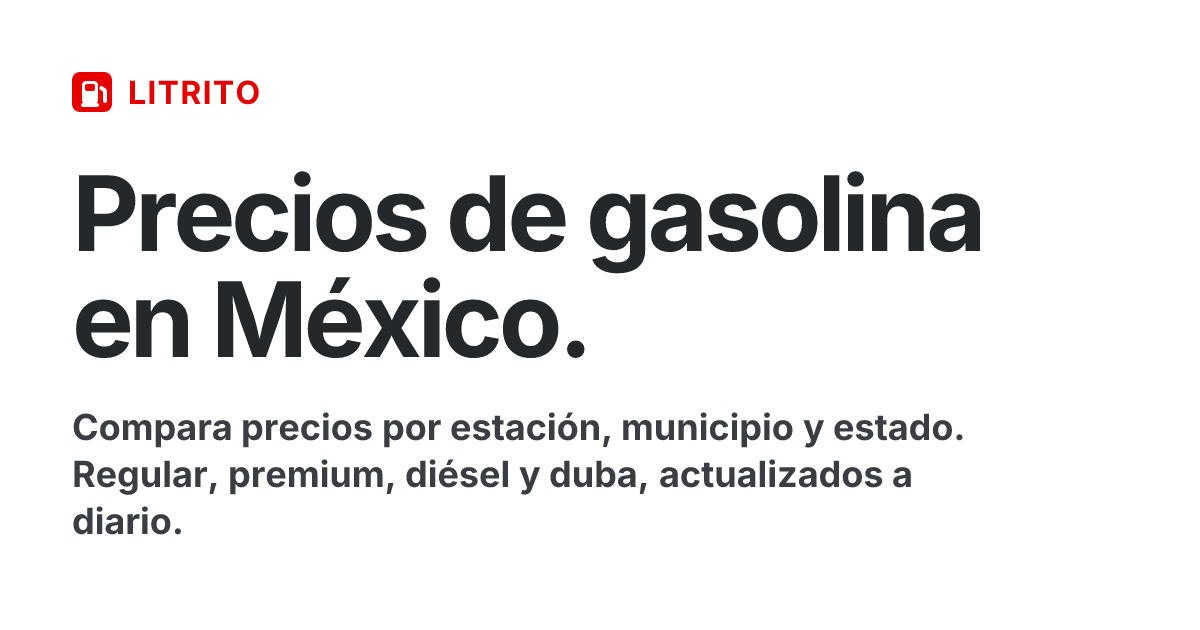
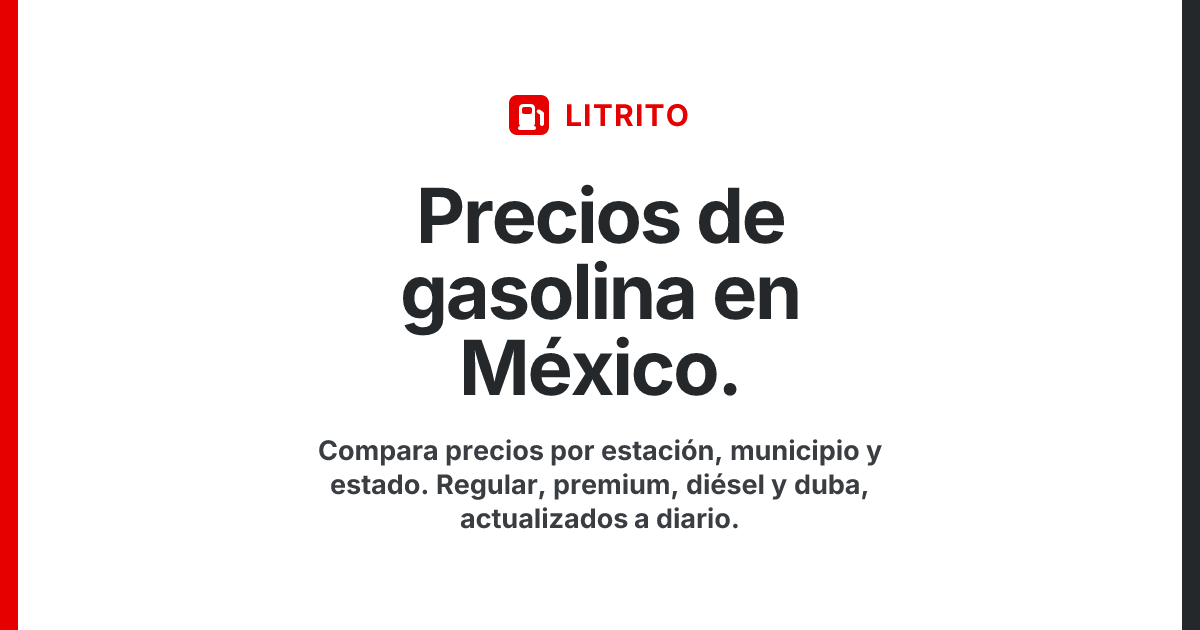
Fix mobile metrics tooltip and OG preview

diff --git a/src/components/SiteNav.tsx b/src/components/SiteNav.tsx
@@ -1,16 +1,18 @@
 import { useState } from 'react'
 import { Link } from '@tanstack/react-router'
 import Avatar from 'boring-avatars'
-import { ChevronDown, Fuel, LogOut, MapPin, User } from 'lucide-react'
+import { ChevronDown, Fuel, LogOut, MapPin, Menu, User, X } from 'lucide-react'
 import { authClient } from '#/lib/auth-client'
 import { useUserLocation } from '#/lib/useUserLocation'
 
 const AVATAR_COLORS = ['#e60000', '#25282b', '#7e7e7e', '#bebebe', '#ffffff']
 
 export function SiteNav() {
+  const [mobileOpen, setMobileOpen] = useState(false)
+
   return (
     <header className="sticky top-0 z-[1100] border-b border-white/10 bg-ink text-on-dark">
-      <nav className="mx-auto flex w-full max-w-6xl items-center gap-4 px-4 py-3 sm:px-6 lg:px-8">
+      <nav className="mx-auto flex w-full max-w-6xl items-center gap-3 px-4 py-3 sm:gap-4 sm:px-6 lg:px-8">
         <Link to="/" className="flex items-center gap-2.5 text-white hover:text-white">
           <span className="flex h-9 w-9 items-center justify-center rounded-[6px] bg-brand">
             <Fuel className="h-5 w-5 text-white" />
@@ -25,9 +27,30 @@ export function SiteNav() {
 
         <div className="ml-auto flex items-center gap-2">
           <LocationPill />
+          <button
+            type="button"
+            aria-label={mobileOpen ? 'Cerrar navegación' : 'Abrir navegación'}
+            aria-expanded={mobileOpen}
+            onClick={() => setMobileOpen((value) => !value)}
+            className="inline-flex h-9 w-9 items-center justify-center rounded-full border border-white/20 text-white/80 transition hover:border-white/50 hover:text-white sm:hidden"
+          >
+            {mobileOpen ? <X className="h-4 w-4" /> : <Menu className="h-4 w-4" />}
+          </button>
           <AccountMenu />
         </div>
       </nav>
+      {mobileOpen && (
+        <div className="border-t border-white/10 bg-ink px-4 py-3 shadow-[0_12px_30px_rgba(0,0,0,0.22)] sm:hidden">
+          <div className="mx-auto grid w-full max-w-6xl gap-2">
+            <MobileNavLink to="/" label="Inicio" onNavigate={() => setMobileOpen(false)} />
+            <MobileNavLink
+              to="/metricas"
+              label="Métricas"
+              onNavigate={() => setMobileOpen(false)}
+            />
+          </div>
+        </div>
+      )}
     </header>
   )
 }
@@ -38,6 +61,28 @@ function NavLink({ to, label }: { to: string; label: string }) {
       to={to}
       className="rounded-full px-3 py-1.5 text-sm font-bold text-white/60 transition hover:text-white"
       activeProps={{ className: 'rounded-full px-3 py-1.5 text-sm font-bold text-white' }}
+      activeOptions={{ exact: to === '/' }}
+    >
+      {label}
+    </Link>
+  )
+}
+
+function MobileNavLink({
+  to,
+  label,
+  onNavigate,
+}: {
+  to: string
+  label: string
+  onNavigate: () => void
+}) {
+  return (
+    <Link
+      to={to}
+      onClick={onNavigate}
+      className="rounded-[6px] px-3 py-2.5 text-sm font-bold text-white/70 transition hover:bg-white/[0.06] hover:text-white"
+      activeProps={{ className: 'rounded-[6px] bg-white/[0.08] px-3 py-2.5 text-sm font-bold text-white' }}
       activeOptions={{ exact: to === '/' }}
     >
       {label}

diff --git a/src/routes/metricas.tsx b/src/routes/metricas.tsx
@@ -1,4 +1,5 @@
 import { createFileRoute, Link } from '@tanstack/react-router'
+import { Popover } from '@base-ui/react/popover'
 import { useQuery } from 'convex/react'
 import { useEffect, useState } from 'react'
 import type { ReactNode } from 'react'
@@ -286,21 +287,25 @@ function ViewButton({
 
 function InfoTooltip({ text }: { text: string }) {
   return (
-    <span className="group relative inline-flex">
-      <button
-        type="button"
+    <Popover.Root>
+      <Popover.Trigger
         aria-label="Por qué hay dos vistas"
-        className="inline-flex h-6 w-6 items-center justify-center rounded-full border border-white/15 text-white/60 transition hover:text-white"
+        className="inline-flex h-6 w-6 items-center justify-center rounded-full border border-white/15 text-white/60 transition hover:text-white data-popup-open:border-white/40 data-popup-open:text-white"
       >
         <Info className="h-3.5 w-3.5" />
-      </button>
-      <span
-        role="tooltip"
-        className="pointer-events-none absolute left-1/2 top-full z-10 mt-2 w-72 -translate-x-1/2 rounded-lg border border-line bg-white p-3 text-left text-xs font-medium leading-5 text-ink opacity-0 shadow-[0_12px_40px_rgba(37,40,43,0.16)] transition group-hover:opacity-100 group-focus-within:opacity-100"
-      >
-        {text}
-      </span>
-    </span>
+      </Popover.Trigger>
+      <Popover.Portal>
+        <Popover.Positioner
+          sideOffset={8}
+          className="z-[1400] max-w-[calc(100vw-2rem)]"
+        >
+          <Popover.Popup className="relative w-[min(18rem,calc(100vw-2rem))] origin-[var(--transform-origin)] rounded-lg border border-line bg-white p-3 text-left text-xs font-medium leading-5 text-ink shadow-[0_12px_40px_rgba(37,40,43,0.16)] outline-none transition-[opacity,transform] duration-150 data-ending-style:scale-[0.98] data-ending-style:opacity-0 data-starting-style:scale-[0.98] data-starting-style:opacity-0">
+            <Popover.Arrow className="relative block h-2 w-3 overflow-clip data-[side=bottom]:top-[-7px] data-[side=left]:right-[-10px] data-[side=left]:rotate-90 data-[side=right]:left-[-10px] data-[side=right]:-rotate-90 data-[side=top]:bottom-[-7px] data-[side=top]:rotate-180 before:absolute before:bottom-0 before:left-1/2 before:h-2 before:w-2 before:-translate-x-1/2 before:translate-y-1/2 before:rotate-45 before:border before:border-line before:bg-white before:content-['']" />
+            <Popover.Description>{text}</Popover.Description>
+          </Popover.Popup>
+        </Popover.Positioner>
+      </Popover.Portal>
+    </Popover.Root>
   )
 }
 

diff --git a/src/routes/__root.tsx b/src/routes/__root.tsx
@@ -53,7 +53,7 @@ export const Route = createRootRouteWithContext<MyRouterContext>()({
         : `https://${appDomain}`
       : ''
     const ogImage = appOrigin ? `${appOrigin}/og-image.png` : '/og-image.png'
-    return { umamiWebsiteId, umamiSrc, ogImage }
+    return { umamiWebsiteId, umamiSrc, appOrigin, ogImage }
   },
   head: ({ loaderData }) => ({
     scripts: loaderData?.umamiWebsiteId
@@ -103,6 +103,10 @@ export const Route = createRootRouteWithContext<MyRouterContext>()({
         content: loaderData?.ogImage ?? '/og-image.png',
       },
       {
+        property: 'og:image:type',
+        content: 'image/png',
+      },
+      {
         property: 'og:image:width',
         content: '1200',
       },
@@ -118,6 +122,14 @@ export const Route = createRootRouteWithContext<MyRouterContext>()({
         property: 'og:locale',
         content: 'es_MX',
       },
+      ...(loaderData?.appOrigin
+        ? [
+            {
+              property: 'og:url',
+              content: loaderData.appOrigin,
+            },
+          ]
+        : []),
       {
         name: 'twitter:card',
         content: 'summary_large_image',
